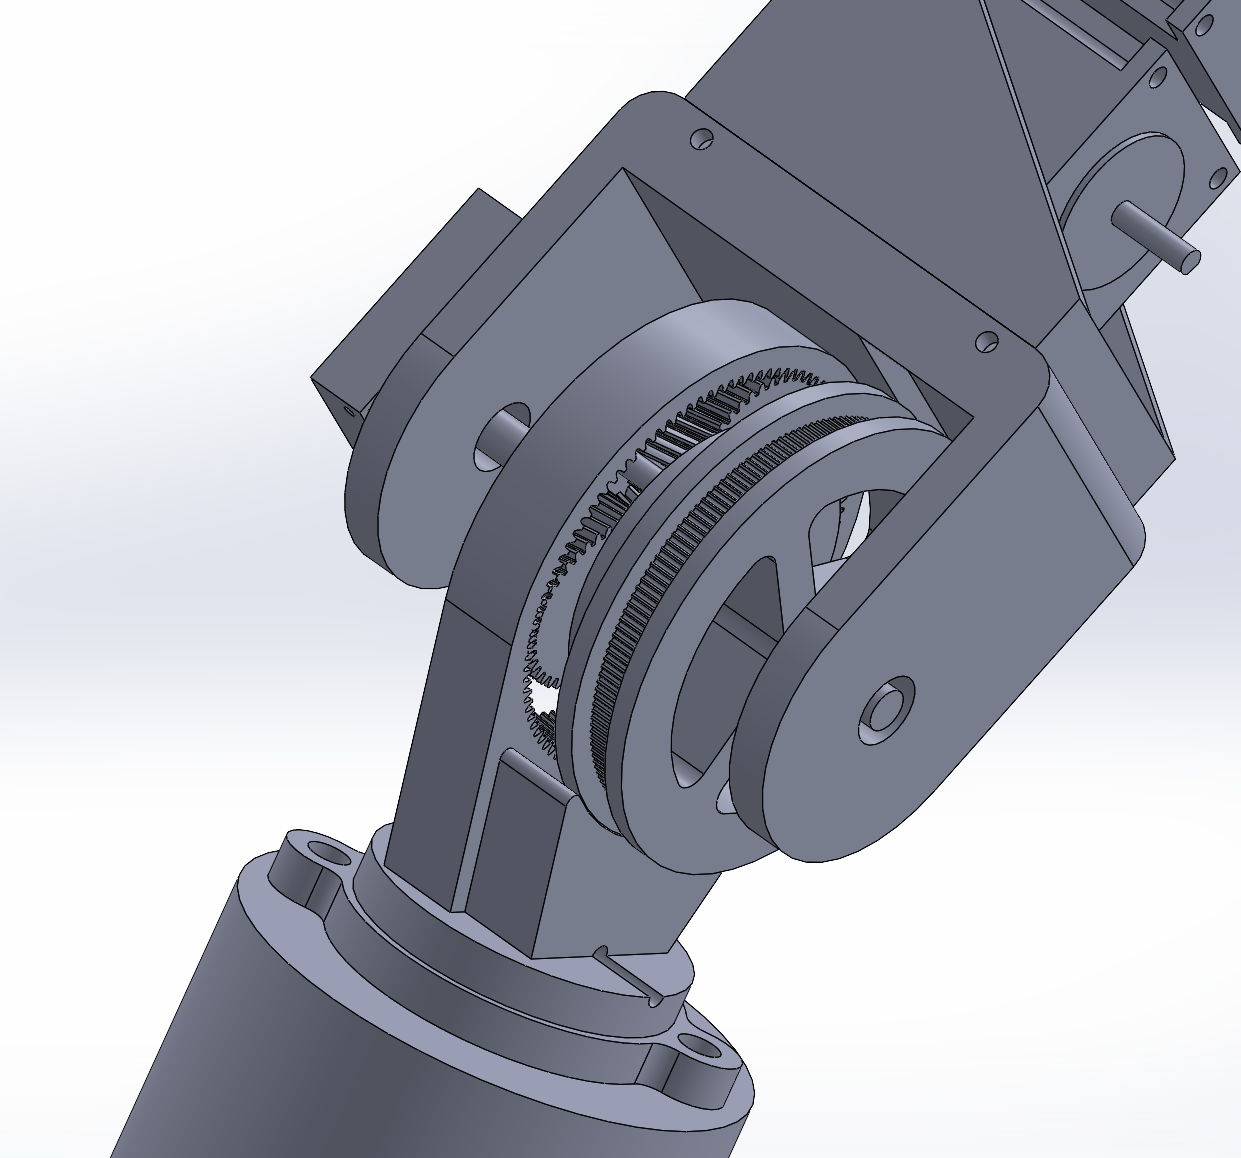
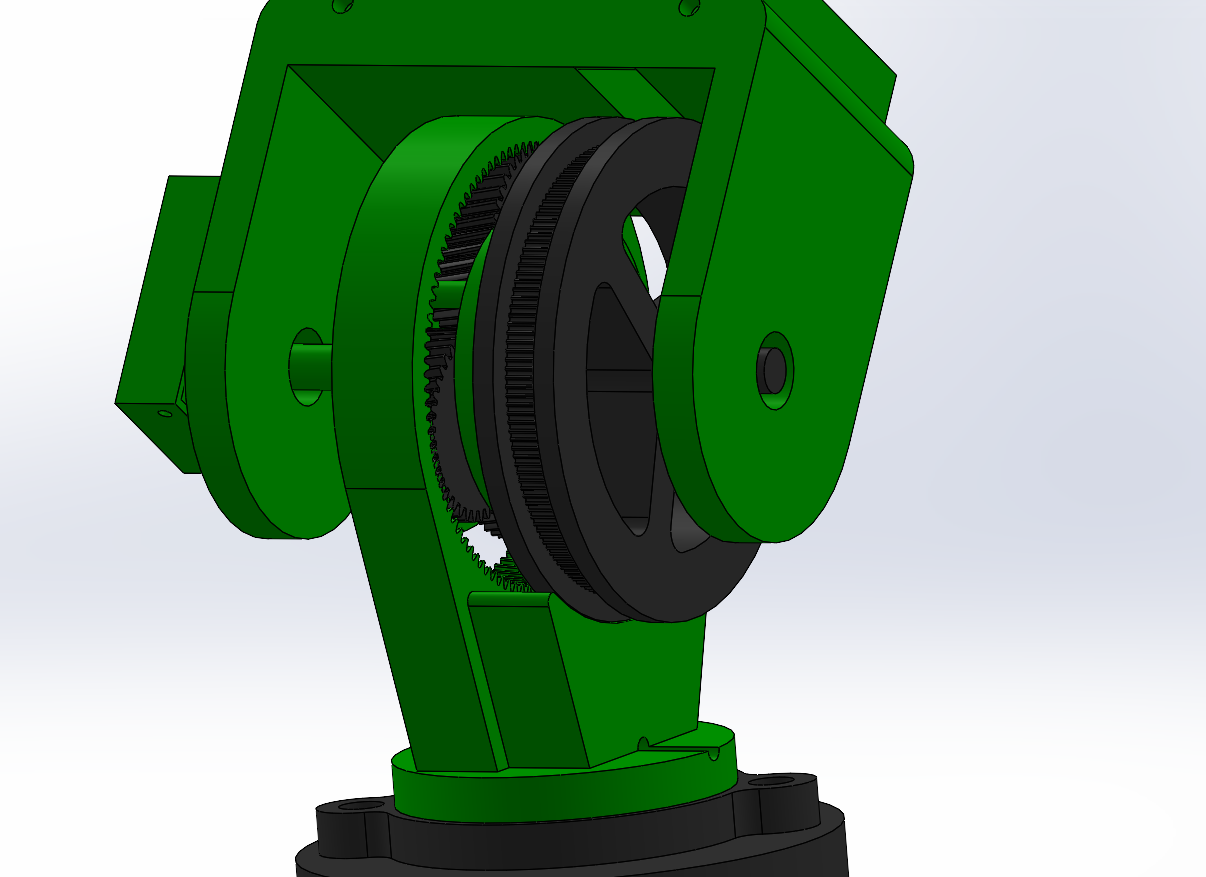
added images and correct descriptions

diff --git a/_includes/about.html b/_includes/about.html
@@ -1,14 +1,17 @@
-<div class="row g-5 mb-5 align-items-start">
-  <div class="col-md-8 d-flex flex-column justify-content-start">
+<div class="row gx-0 gy-3 mb-5 align-items-center">
+  <div class="col-md-9 d-flex flex-column justify-content-start home-copy-column">
     <h3 class="fw-bold mb-3" style="border-bottom: none; font-size: 24px;">About Me</h3>
 
     <p class="mb-3">I’m a Mechanical Engineering student at McMaster University with a strong interest in robotics, mechanical design, automation, and product development. My interest in engineering started through smaller projects like building a Discord bot, where I learned programming, automation, debugging, and how to build systems that people could actually interact with. From there, I moved into more hands-on projects, including a dancing robot and school engineering competitions, which helped me become more interested in robotics and the connection between software, electronics, and mechanical design.</p>
 
     <p class="mb-3">Today, I’m focused on designing more complex systems that bring those areas together. My current major project is a custom 6-DOF robotic arm that I’m designing from the ground up. The project has involved CAD, planetary gearboxes, belt reductions, motor selection, bearings, tolerances, encoders, controls, and extensive 3D-printed prototyping.</p>
 
-    <p class="mb-0">I enjoy learning by building, testing, and improving. Whether I’m working on code, mechanical assemblies, or full robotic systems, I like breaking large problems into smaller challenges and figuring out how each part contributes to the final result. Each project gives me a chance to strengthen my technical skills while becoming a more capable and well-rounded engineer. <a href="{{ site.github.url }}/about" style="text-decoration: underline;">Find out more</a>.</p>
+    <p class="mb-0">I enjoy learning by building, testing, and improving. Whether I’m working on code, mechanical assemblies, or full robotic systems, I like breaking large problems into smaller challenges and figuring out how each part contributes to the final result. Each project gives me a chance to strengthen my technical skills while becoming a more capable and well-rounded engineer.</p>
+    <div class="mt-3 text-center">
+      <a href="{{ site.github.url }}/about" style="text-decoration: underline;">Find out more</a>
+    </div>
   </div>
-  <div class="col-md-4 d-flex align-items-start justify-content-center">
-    <img src="{{ site.github.url }}/assets/img/IMG_0548.JPEG" alt="About Me" class="img-fluid" style="border: 1px solid #000; margin-top: 0; width: 100%; max-width: 100%; height: auto;">
+  <div class="col-md-3 d-flex align-items-center justify-content-md-end justify-content-center home-image-column">
+    <img src="{{ site.github.url }}/assets/img/IMG_0548.JPEG" alt="About Me" class="home-about-image">
   </div>
 </div>

diff --git a/_layouts/home.html b/_layouts/home.html
@@ -14,17 +14,17 @@ layout: default
 
 
 
-<div class="row g-5 mb-5">
-  <div class="col-md-6">
+<div class="row gx-0 gy-3 mb-5 align-items-center">
+  <div class="col-md-9 home-copy-column">
     <h3 class="fw-bold" style="font-size: 24px;">6 Degrees of Freedom Robotic Arm</h3>
     {{ content }}
-    
+
     <div class="mt-3 text-center">
-      <a href="{{ site.github.url }}/projects" class="d-inline-block text-decoration-none border border-dark bg-white text-dark" style="border-radius: 0; padding: 2px 8px; line-height: 1.2; font-size: 20px; letter-spacing: 0.02em;">See other projects</a>
+      <a href="{{ site.github.url }}/projects" style="text-decoration: underline;">See more projects</a>
     </div>
   </div>
-  <div class="col-md-6">
-    <img src="{{ site.github.url }}/assets/img/roboticArm.png" alt="Home" width="100%">
+  <div class="col-md-3 d-flex align-items-center justify-content-md-end justify-content-center home-image-column">
+    <img src="{{ site.github.url }}/assets/img/roboticArm.png" alt="Home" class="home-project-image">
   </div>
 </div>
 

diff --git a/assets/css/main.scss b/assets/css/main.scss
@@ -27,3 +27,59 @@ h1, h2, h3, h4, h5, h6 {
 p, li, ul, ol, a {
   font-size: 20px;
 }
+
+.home-about-image,
+.home-project-image {
+  display: block;
+  width: 100%;
+  max-width: 100%;
+  height: 360px;
+  object-fit: contain;
+  margin: 0 auto;
+}
+
+.projects-page-image {
+  display: block;
+  width: 100%;
+  max-width: 100%;
+  aspect-ratio: 1360 / 986;
+  object-fit: cover;
+  object-position: center;
+  margin: 0 auto;
+}
+
+.project-collage {
+  align-items: stretch;
+}
+
+.project-collage-item {
+  display: flex;
+}
+
+.project-collage-image {
+  display: block;
+  width: 100%;
+  aspect-ratio: 1360 / 986;
+  object-fit: cover;
+  object-position: center;
+}
+
+@media (min-width: 768px) {
+  .home-copy-column {
+    padding-left: 0;
+    padding-right: 1rem;
+  }
+
+  .home-image-column {
+    padding-left: 0;
+    padding-right: 0;
+  }
+}
+
+@media (max-width: 767.98px) {
+  .home-about-image,
+  .home-project-image {
+    max-width: 100%;
+    height: 320px;
+  }
+}

diff --git a/_layouts/projects.html b/_layouts/projects.html
@@ -24,8 +24,8 @@ layout: default
     {% endif %}
     <p><a href="{{ site.github.url }}/projects/{{ project.url }}" style="font-size: 20px;">More info</a></p>
   </div>
-  <div class="col-md-5 d-flex align-items-start">
-    <img src="{{ site.github.url }}/{{ project.image }}" alt="Project profile" class="img-fluid" style="width: 100%; max-width: 100%;">
+  <div class="col-md-5 d-flex align-items-center justify-content-center">
+    <img src="{{ site.github.url }}/{{ project.image }}" alt="Project profile" class="projects-page-image">
   </div>
 </div>
 {% endfor %}

diff --git a/_layouts/about.html b/_layouts/about.html
@@ -13,7 +13,7 @@ layout: default
     </p>
   </div>
   <div class="col-md-5 d-flex align-items-start">
-    <img src="{{ site.github.url }}/assets/img/IMG_9397.JPEG" alt="About Me" class="img-fluid w-100" style="border: 1px solid #000; margin-top: 0;">
+    <img src="{{ site.github.url }}/assets/img/IMG_9397.JPEG" alt="About Me" class="img-fluid w-100" style="margin-top: 0;">
   </div>
 </div>
 

diff --git a/projects/robotic-arm.md b/projects/robotic-arm.md
@@ -7,12 +7,24 @@ Designed and developed a custom 6-DOF robotic arm as a platform for learning mec
 
 The arm is being developed from the ground up, with each joint designed, prototyped, tested, and refined to improve torque, positioning, manufacturability, and overall system performance.
 
-<div class="row g-3 mb-4">
-  <div class="col-md-6">
-    <img src="{{ site.github.url }}/assets/img/gearbox-photo.png" alt="Robotic arm gearbox assembly" class="img-fluid" style="border: 1px solid #000;">
+<div class="row g-3 mb-4 project-collage">
+  <div class="col-md-4 project-collage-item">
+    <img src="{{ site.github.url }}/assets/img/gearbox-photo.png" alt="Robotic arm gearbox assembly" class="project-collage-image">
   </div>
-  <div class="col-md-6">
-    <img src="{{ site.github.url }}/assets/img/roboticArm.png" alt="Robotic arm prototype" class="img-fluid" style="border: 1px solid #000;">
+  <div class="col-md-4 project-collage-item">
+    <img src="{{ site.github.url }}/assets/img/roboticArm.png" alt="Robotic arm prototype" class="project-collage-image">
+  </div>
+  <div class="col-md-4 project-collage-item">
+    <img src="{{ site.github.url }}/assets/img/robotic arm/expanded.png" alt="Expanded robotic arm assembly" class="project-collage-image">
+  </div>
+  <div class="col-md-4 project-collage-item">
+    <img src="{{ site.github.url }}/assets/img/robotic arm/isometric.png" alt="Isometric robotic arm design" class="project-collage-image">
+  </div>
+  <div class="col-md-4 project-collage-item">
+    <img src="{{ site.github.url }}/assets/img/robotic arm/j5-6.png" alt="Robotic arm joints five and six" class="project-collage-image">
+  </div>
+  <div class="col-md-4 project-collage-item">
+    <img src="{{ site.github.url }}/assets/img/robotic arm/j3.png" alt="Robotic arm joint three" class="project-collage-image">
   </div>
 </div>
 

diff --git a/projects/wearable-proposal.md b/projects/wearable-proposal.md
@@ -6,18 +6,18 @@ title: "Wearable Proposal"
 
 <p>This project focused on reimagining a wearable health-monitoring concept for individuals with Alzheimer’s disease. The design intentionally simplified the interface and emphasized comfort, accessibility, and clear alerts through voice, haptics, and LED cues.</p>
 
-<div class="row g-3 mb-4">
-  <div class="col-md-6">
-    <img src="{{ site.github.url }}/assets/img/wearable/wearable.png" alt="Wearable proposal concept" class="img-fluid" style="border: 1px solid #000;">
+<div class="row g-3 mb-4 project-collage">
+  <div class="col-md-6 project-collage-item">
+    <img src="{{ site.github.url }}/assets/img/wearable/wearable.png" alt="Wearable proposal concept" class="project-collage-image">
   </div>
-  <div class="col-md-6">
-    <img src="{{ site.github.url }}/assets/img/wearable/matlab.png" alt="Wearable design analysis" class="img-fluid" style="border: 1px solid #000;">
+  <div class="col-md-6 project-collage-item">
+    <img src="{{ site.github.url }}/assets/img/wearable/matlab.png" alt="Wearable design analysis" class="project-collage-image">
   </div>
 </div>
 
 <div class="mb-4">
   <h4 class="fw-bold mb-3" style="font-size: 24px;">Reverse Engineering Final Paper</h4>
-  <object data="{{ site.github.url }}/assets/Reverse%20Engineering%20Final%20Paper.pdf" type="application/pdf" width="100%" height="1000px" style="border: 1px solid #000; background: #f8f8f8;">
+  <object data="{{ site.github.url }}/assets/Reverse%20Engineering%20Final%20Paper.pdf" type="application/pdf" width="100%" height="1000px" style="background: #f8f8f8;">
     <p>Unable to display the PDF. <a href="{{ site.github.url }}/assets/Reverse%20Engineering%20Final%20Paper.pdf" target="_blank" rel="noopener noreferrer">Open the paper in a new tab</a>.</p>
   </object>
 </div>

diff --git a/index.md b/index.md
@@ -3,7 +3,11 @@ layout: home
 title: "Home"
 ---
 
-Designed 6-DOF robotic arm with 500 mm reach, 2 kg continuous payload, ±2 mm repeatability. Engineered 3 reduction systems using multi-stage planetary gearboxes and pulley reductions reducing up to 84:1. Developed off-axis absolute magnetic encoder system using alternating-polarity magnets to provide <1° angular resolution at 500 Hz sampling for closed-loop position verification, calibration, and future ROS 2 motion planning. <a href="{{ site.github.url }}/projects" style="underline">Read</a>
+This portfolio showcases some of the projects I’m most proud of and reflects the areas of engineering and technology that I’m most passionate about. Each project represents a different part of my growth, from software development and electronics to mechanical design, robotics, prototyping, and product development. Together, they show how my interests have evolved and how I continue to challenge myself by building projects that require me to learn new tools, concepts, and problem-solving approaches.
+
+I enjoy working on projects where I can take an idea, break it down into smaller technical challenges, and gradually turn it into something functional. Whether I’m designing a robotic system, developing software, creating a PCB, or working through a team engineering challenge, I try to focus on understanding the decisions behind the design and improving through testing and iteration.
+
+This portfolio is a collection of that process. It highlights both completed work and projects that are still developing, along with the skills and lessons I’ve gained along the way. I hope you enjoy exploring my work and getting a better understanding of the type of engineer and builder I’m working to become.
 
 
 

diff --git a/projects/custom-keyboard.md b/projects/custom-keyboard.md
@@ -3,19 +3,18 @@ layout: page
 title: "Custom Keyboard"
 ---
 
-<h3 class="fw-bold mb-4" style="font-size: 24px;">Custom Keyboard</h3>
 
 <p>This custom keyboard was designed around a compact, programmable workflow with a focus on ergonomics, PCB design, and signal routing. The project brought together schematic development, board layout, and component planning into a single iterative design process.</p>
 
-<div class="row g-3 mb-4">
-  <div class="col-md-4">
-    <img src="{{ site.github.url }}/assets/img/keyboard/dask schematic.png" alt="Custom keyboard schematic" class="img-fluid" style="border: 1px solid #000;">
+<div class="row g-3 mb-4 project-collage">
+  <div class="col-md-4 project-collage-item">
+    <img src="{{ site.github.url }}/assets/img/keyboard/dask schematic.png" alt="Custom keyboard schematic" class="project-collage-image">
   </div>
-  <div class="col-md-4">
-    <img src="{{ site.github.url }}/assets/img/keyboard/schematic.png" alt="Custom keyboard PCB layout" class="img-fluid" style="border: 1px solid #000;">
+  <div class="col-md-4 project-collage-item">
+    <img src="{{ site.github.url }}/assets/img/keyboard/schematic.png" alt="Custom keyboard PCB layout" class="project-collage-image">
   </div>
-  <div class="col-md-4">
-    <img src="{{ site.github.url }}/assets/img/keyboard/unwiredPcb.png" alt="Custom keyboard PCB without wiring" class="img-fluid" style="border: 1px solid #000;">
+  <div class="col-md-4 project-collage-item">
+    <img src="{{ site.github.url }}/assets/img/keyboard/unwiredPcb.png" alt="Custom keyboard PCB without wiring" class="project-collage-image">
   </div>
 </div>
 

diff --git a/projects/discord-bot.md b/projects/discord-bot.md
@@ -4,12 +4,12 @@ title: "Discord Bot"
 ---
 
 
-<div class="row g-3 mb-4 justify-content-center">
-  <div class="col-md-5">
-    <img src="{{ site.github.url }}/assets/img/rub bot/discordTests.png" alt="Discord bot preview" class="img-fluid" style="border: 1px solid #000;">
+<div class="row g-3 mb-4 justify-content-center project-collage">
+  <div class="col-md-5 project-collage-item">
+    <img src="{{ site.github.url }}/assets/img/rub bot/discordTests.png" alt="Discord bot preview" class="project-collage-image">
   </div>
-  <div class="col-md-5">
-    <img src="{{ site.github.url }}/assets/img/rub bot/workingRub.png" alt="Discord bot working view" class="img-fluid" style="border: 1px solid #000;">
+  <div class="col-md-5 project-collage-item">
+    <img src="{{ site.github.url }}/assets/img/rub bot/workingRub.png" alt="Discord bot working view" class="project-collage-image">
   </div>
 </div>
 

diff --git a/projects/java-based-game.md b/projects/java-based-game.md
@@ -5,9 +5,9 @@ title: "Java Based Game"
 
 <p>This game focused on player choice, life progression, and the consequences of decisions over time. The project gave me experience designing branching systems, interconnected logic, and a more thoughtful user experience centered on decisions rather than just action.</p>
 
-<div class="row g-3 mb-4">
-  <div class="col-md-12">
-    <img src="{{ site.github.url }}/assets/img/java/code.png" alt="Java game code and structure" class="img-fluid" style="border: 1px solid #000;">
+<div class="row g-3 mb-4 justify-content-center project-collage">
+  <div class="col-md-8 project-collage-item">
+    <img src="{{ site.github.url }}/assets/img/java/code.png" alt="Java game code and structure" class="project-collage-image">
   </div>
 </div>
 

diff --git a/projects/dancing-robot.md b/projects/dancing-robot.md
@@ -6,9 +6,9 @@ title: "Dancing Robot"
 
 
 
-<div class="row g-3 mb-4">
-  <div class="col-md-12">
-    <img src="{{ site.github.url }}/assets/img/coming soon.png" alt="Dancing robot coming soon" class="img-fluid" style="border: 1px solid #000;">
+<div class="row g-3 mb-4 justify-content-center project-collage">
+  <div class="col-md-8 project-collage-item">
+    <img src="{{ site.github.url }}/assets/img/coming soon.png" alt="Dancing robot coming soon" class="project-collage-image">
   </div>
 </div>
 
